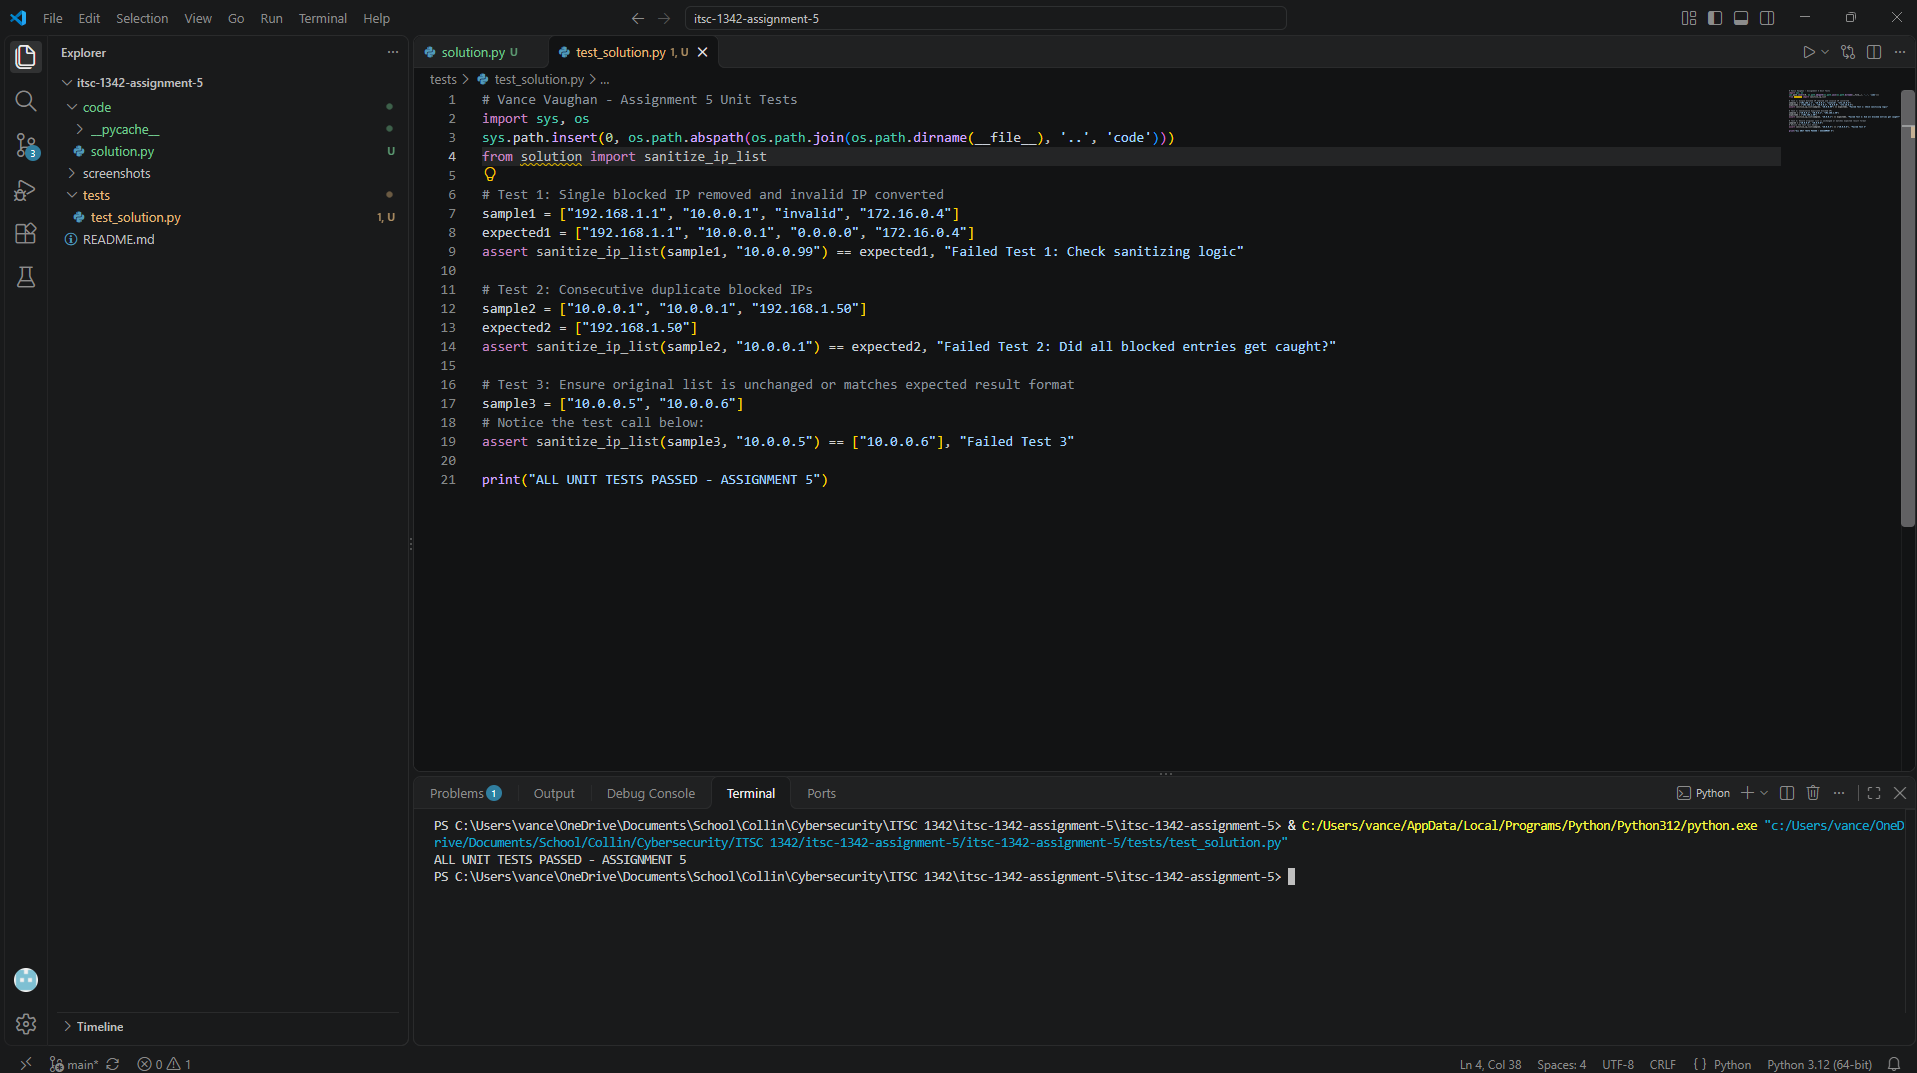
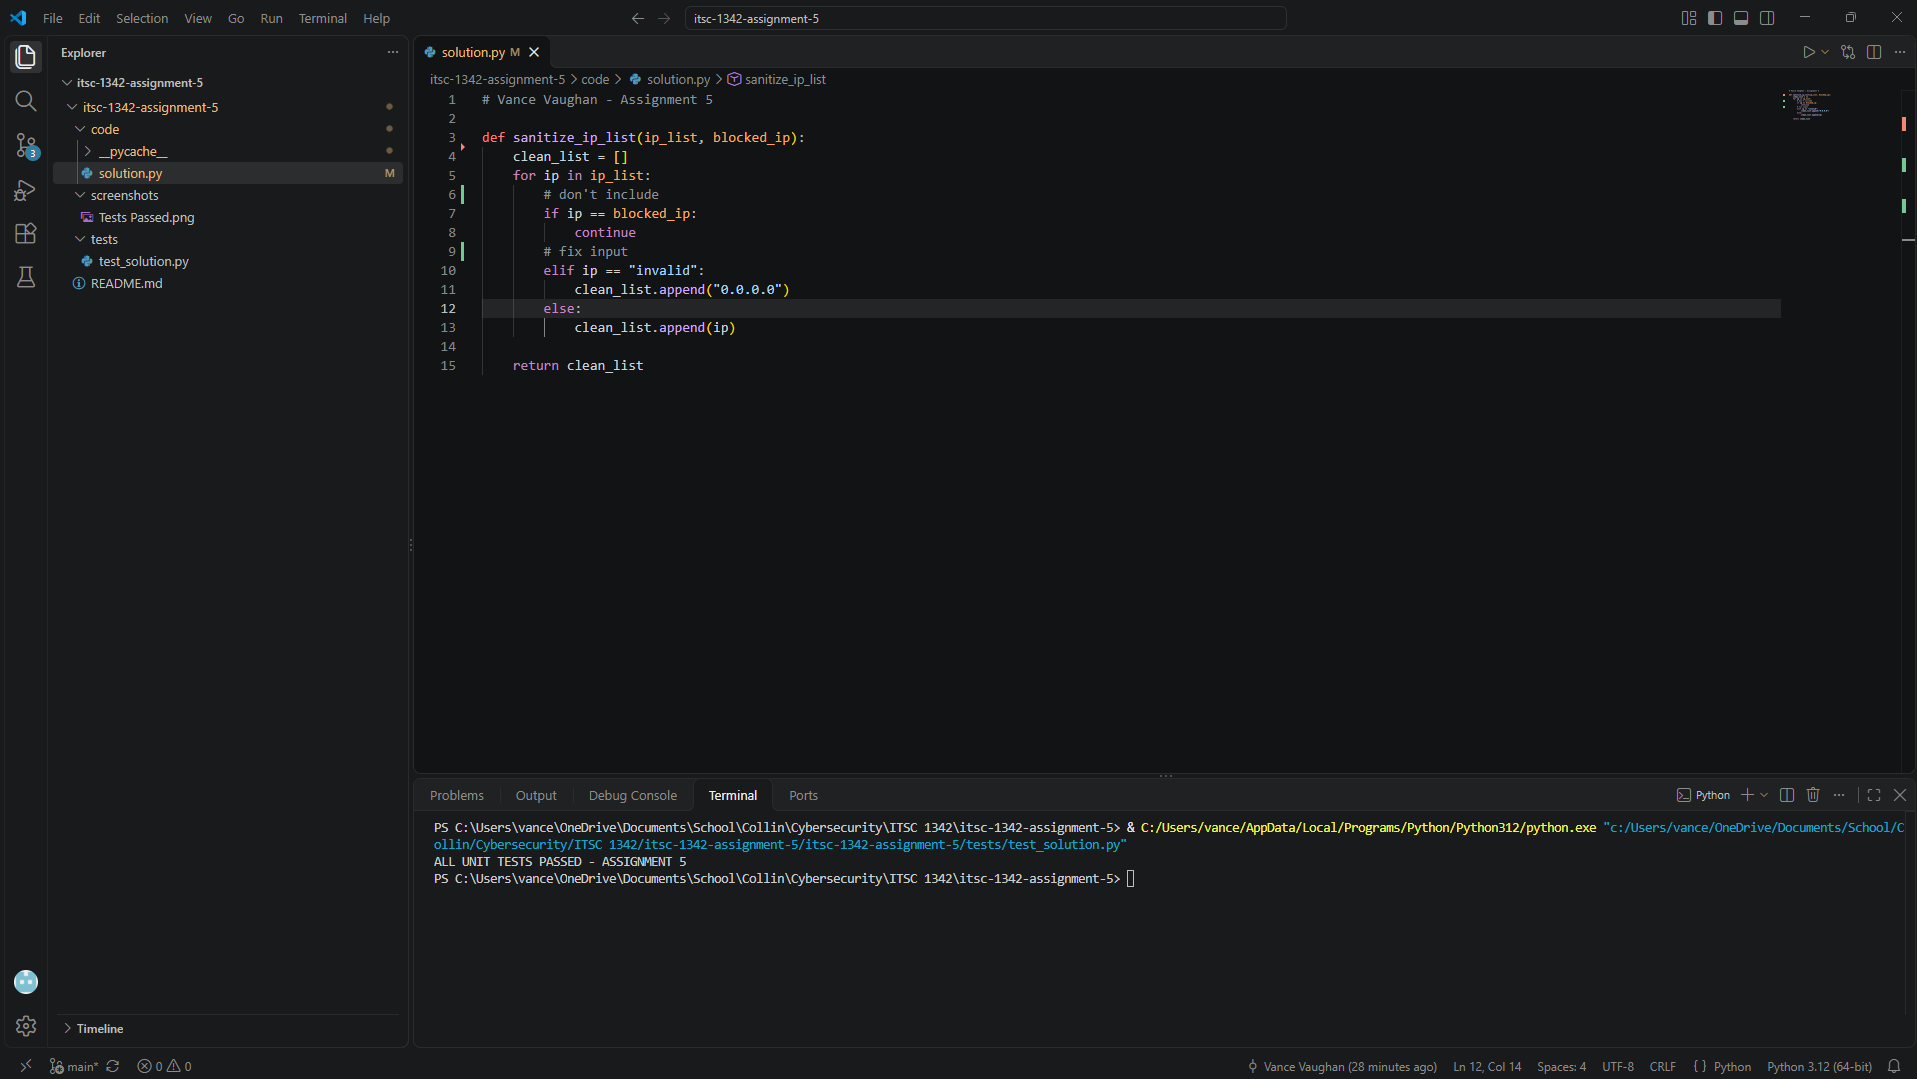
Fixed screenshot

diff --git a/code/solution.py b/code/solution.py
@@ -1,12 +1,12 @@
 # Vance Vaughan - Assignment 5
 
 def sanitize_ip_list(ip_list, blocked_ip):
-    # TODO: Clean up the IP list according to the prompt instructions.
-    # Note: Pay close attention to how items are iterated or removed!
     clean_list = []
     for ip in ip_list:
+        # don't include
         if ip == blocked_ip:
             continue
+        # fix input
         elif ip == "invalid":
             clean_list.append("0.0.0.0")
         else:
